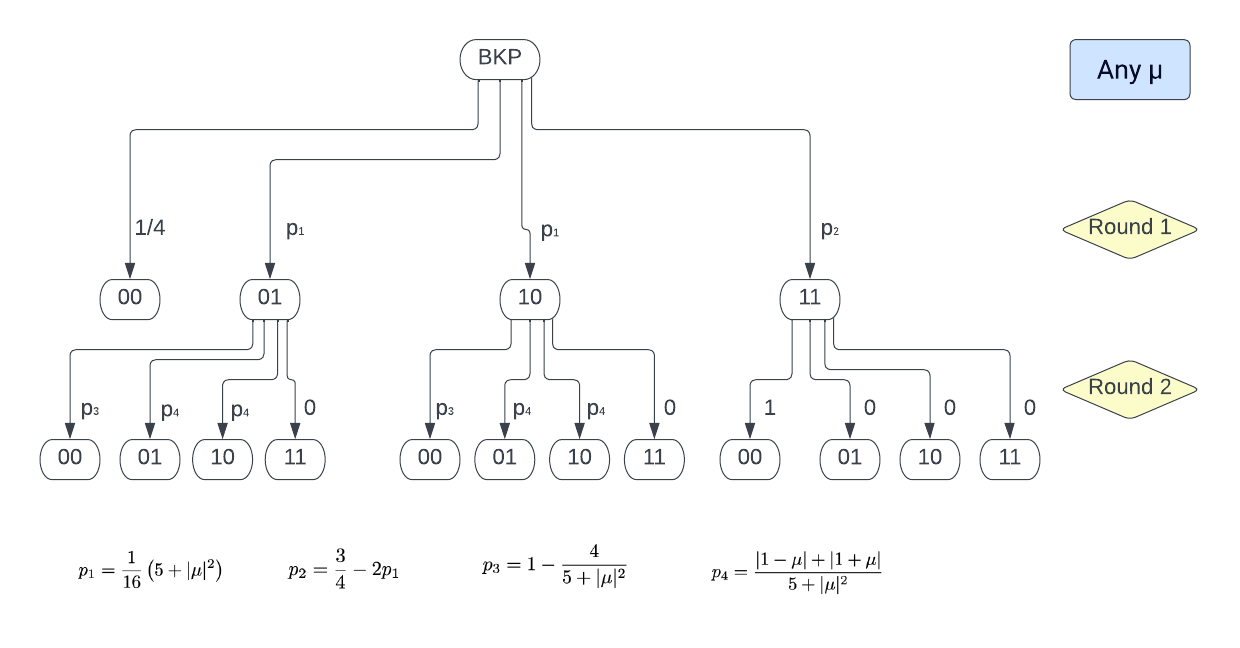
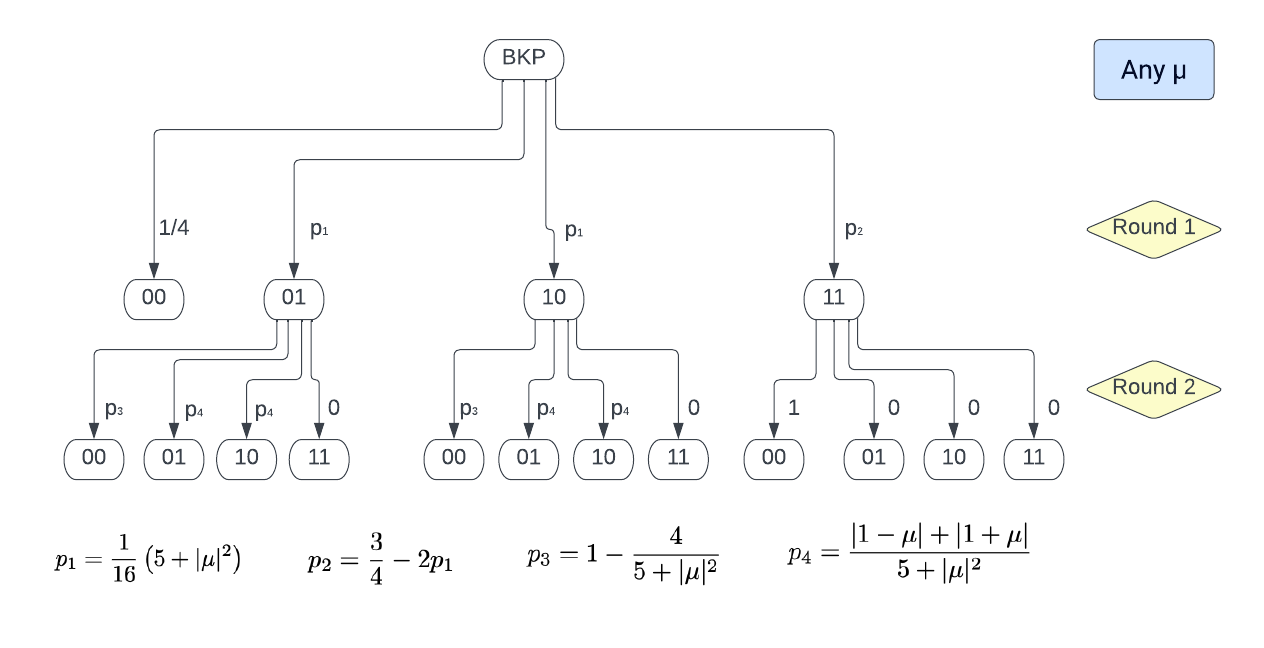
Increased equation size

diff --git a/README.md b/README.md
@@ -1,7 +1,7 @@
 # bkp-and-visibility
 ## Barrett Kok protocol with non-overlapping modes
 
-The Barrett Kok protocol can establish entanglement between two qubits even given noisy or lossy channels. In the protocol, Alice and Bob each entangle their qubit with a photon, and each emit the photon towards a beamsplitter. The experimenter post-selects on detection of one or more photons from the output ports of the beamsplitter. Alice and Bob then each apply an X gate to their qubits, entangle with another photon, and again emit towards the input ports of a beamsplitter. The final entangled state, again post-selecting on detection of one or more photons, will be a fully entangled state shared between Alice and Bob. This notebook plots anticipated fidelity of the final Bell state when the mode overlap $\mu$ for the two modes interfering in the beamsplitter during each round is not necessarily 1. $\uparrow$
+The Barrett Kok protocol can establish entanglement between two qubits even given noisy or lossy channels. In the protocol, Alice and Bob each entangle their qubit with a photon, and each emit the photon towards a beamsplitter. The experimenter post-selects on detection of one or more photons from the output ports of the beamsplitter. Alice and Bob then each apply an X gate to their qubits, entangle with another photon, and again emit towards the input ports of a beamsplitter. The final entangled state, again post-selecting on detection of one or more photons, will be a fully entangled state shared between Alice and Bob. This notebook plots anticipated fidelity of the final Bell state when the mode overlap $\mu$ for the two modes interfering in the beamsplitter during each round is not necessarily 1. 
 
 
 ## Probabilities of each outcome on each round
